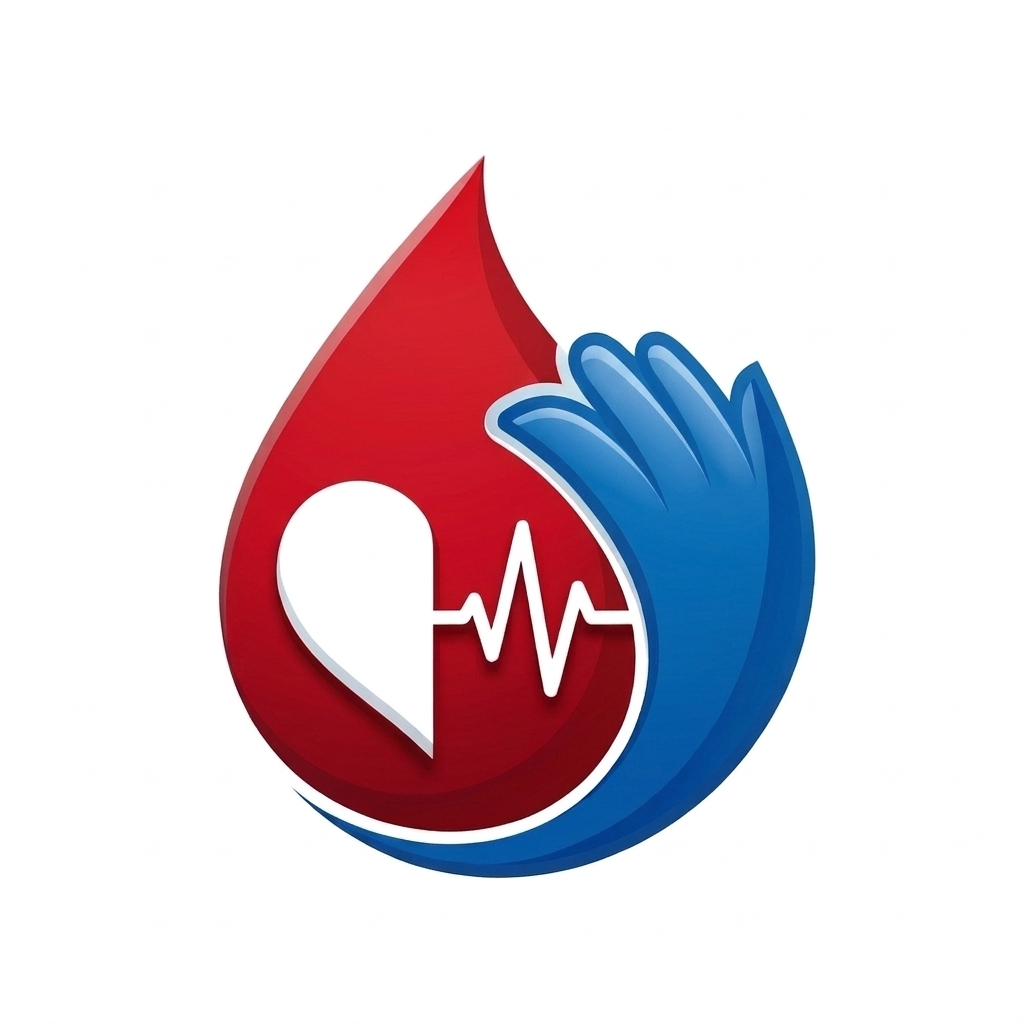
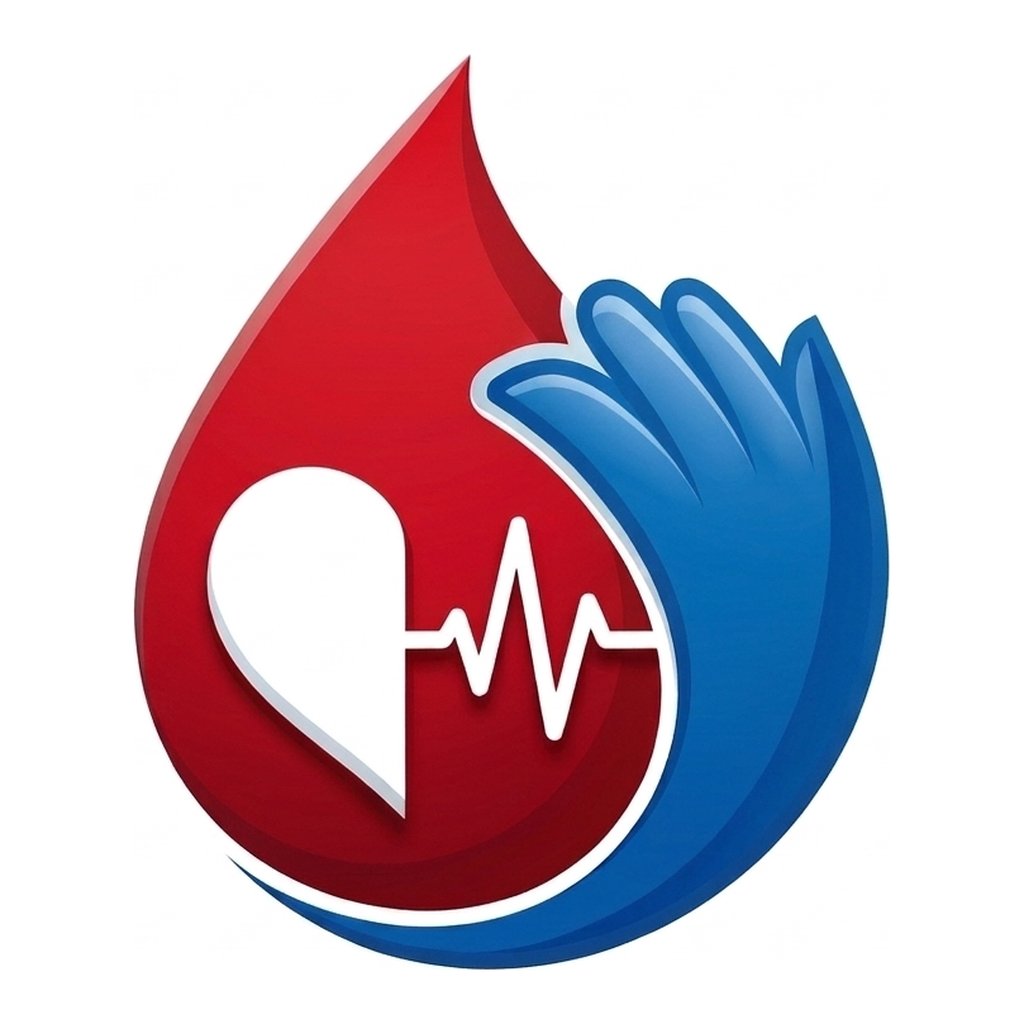
Update 3.0
Logo placement and tablet/ABI builds:

- The logo read small because the supplied artwork carries a wide white margin,
  and because the three shell headers each drew it differently (30 px in the
  donor bar, 30 px in the donor rail, 28 px in the staff bar, one with a
  gradient frame and one without). tools/make_logo_assets.py now trims the
  white margin to the mark and re-pads it by 6%, so the drop, heart and hand
  fill the tile, and every output is regenerated.
- New shared TabangLogo widget (lib/widgets/common.dart) is the single mark
  used by the donor phone bar, the donor rail, the staff phone bar, the login
  hero, the register screen and About & Help, at 36-48 px with the same frame
  and rounding. Consistency is now structural, not three copies of the same
  snippet.
- Android manifest made tablet-friendly: resizeableActivity, every screen size
  supported, and a touchscreen is no longer implied as required (that implicit
  feature is what hides an app from some tablets and Chromebooks).

Changed region(s): [[0.125, 0.0625, 0.875, 0.9688]]

diff --git a/lib/widgets/common.dart b/lib/widgets/common.dart
@@ -5,12 +5,54 @@ import '../core/models.dart';
 import '../theme.dart';
 import 'illustrations.dart';
 import 'layout.dart';
+import 'photo.dart';
 
 /// Small, reusable building blocks shared by both dashboards.
 ///
 /// The previous build re-implemented a stat card, a status pill and a section
 /// header in nearly every page with slightly different padding and colours.
 /// These are the single versions.
+
+/// The TABANG mark used by every shell header.
+///
+/// One widget so the phone bar, the donor rail and the staff rail cannot drift
+/// apart again — they previously drew the logo at 28 px in one place and 30 px
+/// in another, one with a gradient frame and one without. The supplied artwork
+/// sits on its own white plate, so the tile is clipped to a rounded square at a
+/// size that keeps the drop, heart and hand legible.
+class TabangLogo extends StatelessWidget {
+  const TabangLogo({super.key, this.size = 40});
+
+  static const String asset = 'assets/branding/app_icon.png';
+
+  /// Height and width of the artwork itself; the frame adds 2 px on each side.
+  final double size;
+
+  @override
+  Widget build(BuildContext context) {
+    return Container(
+      decoration: BoxDecoration(
+        gradient: TabangGradients.brand,
+        borderRadius: BorderRadius.circular(TabangRadius.sm),
+      ),
+      padding: const EdgeInsets.all(2),
+      child: ClipRRect(
+        borderRadius: BorderRadius.circular(TabangRadius.xs),
+        child: SizedBox(
+          width: size,
+          height: size,
+          child: TabangPhoto(
+            asset,
+            semanticLabel: 'TABANG',
+            creditLabel: 'TABANG logo',
+            fallbackIcon: Icons.water_drop,
+            fallbackIconSize: size * 0.5,
+          ),
+        ),
+      ),
+    );
+  }
+}
 
 /// Branded confirmation for actions that are hard to undo: signing out,
 /// leaving a blood drive's chapter list, or closing the app from a phone.

diff --git a/lib/screens/donor/donor_shell.dart b/lib/screens/donor/donor_shell.dart
@@ -654,20 +654,7 @@ class _PhoneHeader extends StatelessWidget {
       ),
       child: Row(
         children: [
-          ClipRRect(
-            borderRadius: BorderRadius.circular(TabangRadius.xs),
-            child: const SizedBox(
-              width: 30,
-              height: 30,
-              child: TabangPhoto(
-                'assets/branding/app_icon.png',
-                semanticLabel: 'TABANG',
-                creditLabel: 'TABANG logo',
-                fallbackIcon: Icons.water_drop,
-                fallbackIconSize: 16,
-              ),
-            ),
-          ),
+          const TabangLogo(),
           const SizedBox(width: TabangSpace.sm),
           // Matches the staff header: the identity gets the free space and
           // ellipsizes instead of pushing the actions off-screen.
@@ -881,27 +868,7 @@ class _Sidebar extends StatelessWidget {
             ? MainAxisAlignment.start
             : MainAxisAlignment.center,
         children: [
-          Container(
-            decoration: BoxDecoration(
-              gradient: TabangGradients.brand,
-              borderRadius: BorderRadius.circular(TabangRadius.xs),
-            ),
-            padding: const EdgeInsets.all(2),
-            child: ClipRRect(
-              borderRadius: BorderRadius.circular(4),
-              child: const SizedBox(
-                width: 30,
-                height: 30,
-                child: TabangPhoto(
-                  'assets/branding/app_icon.png',
-                  semanticLabel: 'TABANG',
-                  creditLabel: 'TABANG logo',
-                  fallbackIcon: Icons.water_drop,
-                  fallbackIconSize: 16,
-                ),
-              ),
-            ),
-          ),
+          const TabangLogo(size: 36),
           if (expanded) ...[
             const SizedBox(width: TabangSpace.sm),
             Expanded(

diff --git a/lib/screens/shared/about_help_page.dart b/lib/screens/shared/about_help_page.dart
@@ -1176,26 +1176,7 @@ class _AboutHelpPageState extends State<AboutHelpPage> {
             children: [
               Row(
                 children: [
-                  Container(
-                    padding: const EdgeInsets.all(2),
-                    decoration: const BoxDecoration(
-                      color: Colors.white,
-                      shape: BoxShape.circle,
-                    ),
-                    child: const ClipOval(
-                      child: SizedBox(
-                        width: 52,
-                        height: 52,
-                        child: TabangPhoto(
-                          'assets/branding/app_icon.png',
-                          semanticLabel: 'TABANG logo',
-                          creditLabel: 'TABANG logo',
-                          fallbackIcon: Icons.water_drop,
-                          fallbackIconSize: 22,
-                        ),
-                      ),
-                    ),
-                  ),
+                  const TabangLogo(size: 48),
                   const SizedBox(width: TabangSpace.md),
                   Expanded(
                     child: Column(

diff --git a/lib/screens/admin/admin_shell.dart b/lib/screens/admin/admin_shell.dart
@@ -650,27 +650,7 @@ class _AdminPhoneHeader extends StatelessWidget {
       ),
       child: Row(
         children: [
-          Container(
-            decoration: BoxDecoration(
-              gradient: TabangGradients.brand,
-              borderRadius: BorderRadius.circular(TabangRadius.xs),
-            ),
-            padding: const EdgeInsets.all(2),
-            child: ClipRRect(
-              borderRadius: BorderRadius.circular(4),
-              child: const SizedBox(
-                width: 28,
-                height: 28,
-                child: TabangPhoto(
-                  'assets/branding/app_icon.png',
-                  semanticLabel: 'TABANG',
-                  creditLabel: 'TABANG logo',
-                  fallbackIcon: Icons.water_drop,
-                  fallbackIconSize: 15,
-                ),
-              ),
-            ),
-          ),
+          const TabangLogo(),
           const SizedBox(width: TabangSpace.sm),
           // Long aliases and role labels must ellipsize, never widen the row:
           // the donor and staff headers share this rule.

diff --git a/lib/screens/auth/register_screen.dart b/lib/screens/auth/register_screen.dart
@@ -140,20 +140,7 @@ class _RegisterScreenState extends State<RegisterScreen> {
                   Row(
                     crossAxisAlignment: CrossAxisAlignment.start,
                     children: [
-                      ClipRRect(
-                        borderRadius: BorderRadius.circular(TabangRadius.sm),
-                        child: const SizedBox(
-                          width: 38,
-                          height: 38,
-                          child: TabangPhoto(
-                            'assets/branding/app_icon.png',
-                            semanticLabel: 'TABANG app icon',
-                            creditLabel: 'TABANG logo',
-                            fallbackIcon: Icons.water_drop,
-                            fallbackIconSize: 20,
-                          ),
-                        ),
-                      ),
+                      const TabangLogo(size: 42),
                       const SizedBox(width: TabangSpace.md),
                       Expanded(
                         child: Text(

diff --git a/lib/screens/auth/login_screen.dart b/lib/screens/auth/login_screen.dart
@@ -2,6 +2,7 @@ import 'package:flutter/material.dart';
 
 import '../../core/auth.dart';
 import '../../theme.dart';
+import '../../widgets/common.dart';
 import '../../widgets/photo.dart';
 import 'register_screen.dart';
 
@@ -269,20 +270,7 @@ class _LoginScreenState extends State<LoginScreen> {
       children: [
         Row(
           children: [
-            ClipRRect(
-              borderRadius: BorderRadius.circular(TabangRadius.sm),
-              child: const SizedBox(
-                width: 40,
-                height: 40,
-                child: TabangPhoto(
-                  'assets/branding/app_icon.png',
-                  semanticLabel: 'TABANG app icon',
-                  creditLabel: 'TABANG logo',
-                  fallbackIcon: Icons.water_drop,
-                  fallbackIconSize: 22,
-                ),
-              ),
-            ),
+            const TabangLogo(size: 44),
             const SizedBox(width: TabangSpace.md),
             Text(
               'TABANG',

diff --git a/tools/make_logo_assets.py b/tools/make_logo_assets.py
@@ -41,6 +41,30 @@ ANDROID_ICONS = {
 # the square can be cropped by the launcher), so the art is inset and padded.
 MASKABLE_INSET = 0.78
 
+# The source artwork carries a wide white margin around the mark. Trimming to
+# the mark and re-padding by this fraction makes the logo read at header sizes
+# instead of sitting small inside its tile.
+TRIM_THRESHOLD = 246
+TRIM_PADDING = 0.06
+
+
+def _trim_to_mark(image: Image.Image) -> Image.Image:
+    """Crop the white margin, then re-pad the mark by [TRIM_PADDING]."""
+    grey = image.convert("L")
+    mask = grey.point(lambda value: 255 if value < TRIM_THRESHOLD else 0)
+    box = mask.getbbox()
+    if box is None:
+        return image
+    art = image.crop(box)
+    side = max(art.size)
+    pad = int(round(side * TRIM_PADDING))
+    canvas = Image.new("RGB", (side + 2 * pad, side + 2 * pad), (255, 255, 255))
+    canvas.paste(
+        art,
+        ((canvas.width - art.width) // 2, (canvas.height - art.height) // 2),
+    )
+    return canvas
+
 
 def _square(image: Image.Image, size: int, inset: float = 1.0) -> Image.Image:
     """Resize [image] to a white square of [size], art occupying [inset]."""
@@ -59,6 +83,7 @@ def main() -> None:
         left = (art.width - side) // 2
         top = (art.height - side) // 2
         art = art.crop((left, top, left + side, top + side))
+    art = _trim_to_mark(art)
 
     os.makedirs(BRANDING, exist_ok=True)
 
